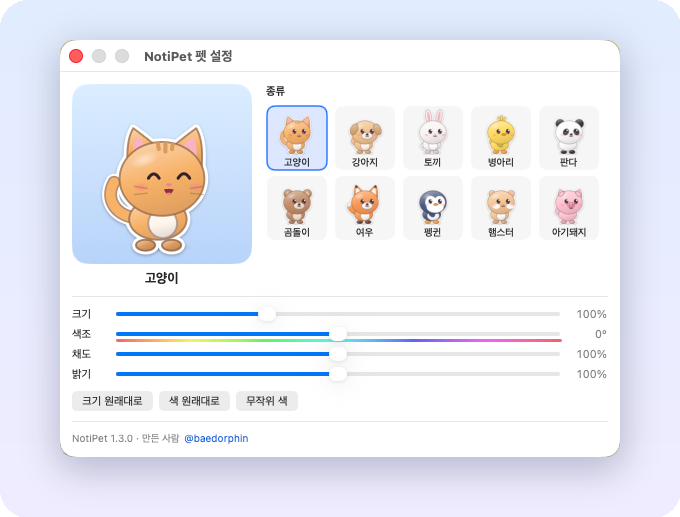
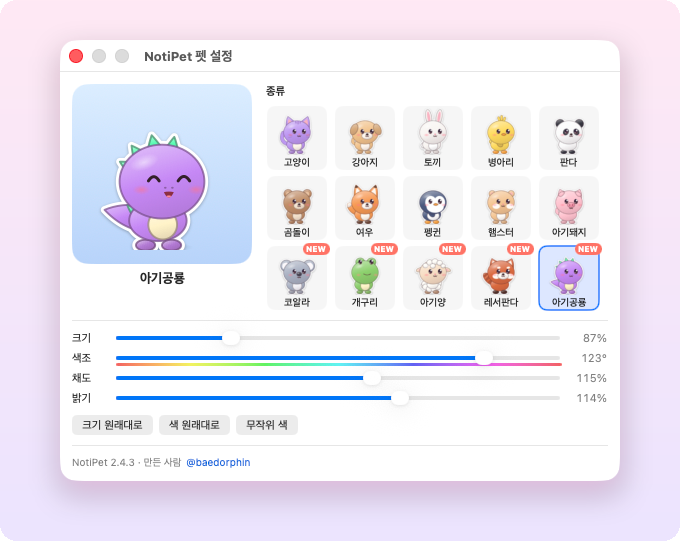
소개 페이지: 예전 디자인으로 되돌리고 작고 아기자기하게
- 담백한(평평한) 테마를 걷고 파스텔 그라데이션·카드·그림자를 되살림
- 전체 크기를 줄임(히어로 두 칸, 미리 보기 화면·카드·펫 카드 작게)
- 파스텔 핑크·라벤더·민트, 핑크→라벤더 버튼, 섹션 제목 ✦, 제목 🐾
- 모서리는 작게, 짧은 문장은 한 줄 유지, 휴대폰 배치 정리 유지
- 설정 창 사진을 2.4.3(펫 15종)으로 새로 찍음

diff --git a/site/style.css b/site/style.css
@@ -321,118 +321,47 @@ main { width: 100%; padding: 0 var(--gutter); }
   .float-heart, .dock span.bounce { animation: none; }
 }
 
+
 /* =====================================================================
-   담백한 테마 (2026-10-01): 둥근 모서리·그림자·색 그라데이션을 걷어내고
-   흰 바탕에 1px 선만 쓴다. 문장은 한 줄에 들어가게 짧게 쓰고,
-   좁은 화면에서는 줄을 바꾸는 대신 글자 크기를 폭에 맞춘다.
+   정리 (2026-10-01): 예전 디자인 그대로 두고
+   · 모서리만 작게 · 짧은 문장은 줄을 바꾸지 않고 좁은 화면에선 글자 크기를 폭에 맞춤
+   · 휴대폰 배치(색 조절·구매 신청·버전 목록) 정리
    ===================================================================== */
-:root { --line: #e5e7eb; --soft: #f6f7f9; --ink: #1f2430; --muted: #6b7280; --navy: #111827; --blue: #2f5ff5; --blue-deep: #2448c9; --shadow: none; --radius: 0; }
-*, *::before, *::after { border-radius: 0 !important; box-shadow: none !important; }
-.win i, .eyebrow .dot { border-radius: 50% !important; }         /* 맥 창 신호등·상태 점만 둥글게 */
-body { background: #fff; color: var(--ink); line-height: 1.5; }
-h1, h2, h3 { letter-spacing: -.01em; }
+:root { --radius: 12px; }
+.btn { border-radius: 9px; }
+.chips li, .tag, .eyebrow, .lang-switch, .unmute, .new-badge, .card h3 small { border-radius: 6px; }
+.stage { border-radius: 14px; }
+.art, .note, .buy, .dl-row, .faq details, .tuner, .pet-card { border-radius: 10px; }
+.win, .mini-noti, .mini-bubble, .mock-dialog, .mock-toggles { border-radius: 8px; }
+.bubble { border-radius: 12px; }
+.video-frame { border-radius: 14px; }
 
-/* 한 줄 문장: 줄을 바꾸지 않는다 */
+/* 한 줄 문장: 줄을 바꾸지 않는다 (문구는 짧게 써 두었다) */
 .hero h1, .lead, .section-title, .section-lead, .card h3, .card p, .checks li, .note b, .note p, .buy-head b, .buy-head span,
-.faq summary, .faq p, .dl-what, .dl-foot, .footer p, .stage-tip, .chips li, .bubble b, .bubble p, .toast { white-space: nowrap; }
-
-/* 상단 */
-.nav { background: rgba(255, 255, 255, .92); backdrop-filter: blur(10px); border-bottom: 1px solid var(--line); padding-top: 8px; padding-bottom: 8px; }
-.brand img, .footer img, .app-icon { border-radius: 0 !important; }
-.lang-switch { border-color: var(--line); font-weight: 700; }
-
-/* 버튼: 평평하게 */
-.btn { border-width: 1px; font-weight: 700; }
-.btn.primary { background: var(--navy); border-color: var(--navy); color: #fff; }
-.btn.primary:hover { background: #000; }
-.btn.ghost { background: #fff; border-color: #d1d5db; color: var(--navy); }
-.btn.ghost:hover { border-color: var(--navy); }
-
-/* 히어로: 가운데로 쌓아서 제목이 한 줄에 들어가게 */
-.hero { grid-template-columns: 1fr; justify-items: center; text-align: center; gap: 28px; padding: clamp(36px, 6vw, 88px) 0 24px; }
-.hero-copy { display: grid; justify-items: center; }
-.eyebrow { background: #fff; border-color: var(--line); color: var(--muted); font-weight: 600; }
-.hero h1 { font-size: clamp(20px, 5.3vw, 60px); line-height: 1.2; }
-.hero h1 em { background: none; color: var(--blue); -webkit-text-fill-color: currentColor; }
-html[lang=en] .hero h1 { font-size: clamp(16px, 4.3vw, 56px); }
-.lead { font-size: clamp(12px, 3.6vw, 19px); margin: 14px 0 22px; }
-.cta { justify-content: center; }
-.chips { justify-content: center; margin-top: 16px; flex-wrap: nowrap; }
-.chips li { font-size: clamp(10.5px, 3.1vw, 13px); }
-.chips li { background: #fff; border-color: var(--line); font-weight: 500; }
-.chips li.paid { background: #fff; border-color: #e7d3a4; color: #8a5a00; }
-
-/* 미리 보기 화면 */
-.stage { width: 100%; height: clamp(300px, 34vw, 520px); background: var(--soft); border: 1px solid var(--line); }
-.menubar { background: rgba(255, 255, 255, .9); border-bottom: 1px solid var(--line); }
-.win { background: #fff; border: 1px solid var(--line); }
-.win b { background: #eef0f3; }
-.dock { background: #fff; border: 1px solid var(--line); backdrop-filter: none; }
-.pet { filter: none; }
-.bubble { width: auto; min-width: 180px; border: 1px solid #d9dde3; padding: 9px 12px 10px; }
-.bubble::after { border-top-color: #fff; }
-.bubble .top i { border-radius: 0 !important; }
-.bubble .bar { background: var(--blue); opacity: .5; }
-
-/* 섹션·카드 */
-.section { padding: clamp(40px, 6vw, 72px) 0 0; }
-.section-title { font-size: clamp(20px, 5.4vw, 30px); }
-.section-lead { font-size: clamp(11px, 3.4vw, 16px); }
-.card { background: #fff; border: 1px solid var(--line); padding: 12px 12px 14px; }
-.card h3 { font-size: clamp(15px, 4.2vw, 18px); margin: 12px 2px 2px; }
-.card h3 small { background: #fff; border: 1px solid #e7d3a4; color: #8a5a00; }
-.card p { font-size: clamp(11px, 3.5vw, 14px); margin: 0 2px; }
-.art, .art-blue, .art-peach, .art-lilac, .art-mint, .art-pink, .art-sage, .art-gold { background: var(--soft); }
-.mini-noti, .mini-bubble, .mock-dialog, .mock-toggles { border-color: var(--line); }
-.mini-bubble b, .mock-dialog span { white-space: nowrap; }
-.folder { background: #6b8df5; } .folder::before { background: #5b7ff0; }
-.num { background: var(--navy); }
-.checks li { font-size: clamp(12px, 3.6vw, 16px); }
-.checks li::before { background: var(--navy); }
-
-/* 펫 고르기 */
-.tuner { border: 1px solid var(--line); }
-.pet-card { border: 1px solid var(--line); }
-.pet-card[aria-pressed=true] { border-color: var(--navy); outline: 1px solid var(--navy); }
-.pet-card:hover { transform: none; border-color: #9ca3af; }
-.new-badge { background: var(--navy); }
-
-/* 설정 화면 사진 */
-.shot { filter: none; border: 1px solid var(--line); }
-
-/* 영상 */
-.video-frame { background: var(--soft); border: 1px solid var(--line); }
-.unmute { border-color: #d1d5db; }
-
-/* 내려받기 */
-.note, .note.paid, .note.free { background: #fff; border: 1px solid var(--line); color: var(--ink); }
-.note b { font-size: clamp(13px, 3.8vw, 16px); }
-.note p { font-size: clamp(11px, 3.4vw, 14px); }
-.buy { border: 1px solid var(--line); }
-.buy-head span { font-size: clamp(11px, 3.3vw, 14px); }
-.buy-fields input { border-color: #d1d5db; background: #fff; }
-.dl-row, .dl-row.latest { border: 1px solid var(--line); border-top-width: 0; }
-.dl-list { gap: 0; border-top: 1px solid var(--line); }
-.dl-row.latest { background: var(--soft); }
-.tag.paid, .tag.free { background: #fff; border: 1px solid currentColor; }
-.tag.new { background: var(--navy); }
-.dl-what { font-size: clamp(12px, 3.6vw, 14px); }
-
-/* 자주 묻는 질문: 한 줄짜리 문장을 줄마다 */
-.faq { grid-template-columns: repeat(auto-fit, minmax(min(100%, 460px), 1fr)); gap: 0 12px; }
-.faq details { border: 1px solid var(--line); margin-top: -1px; }
-.faq summary { font-size: clamp(12.5px, 3.7vw, 15px); }
-.faq summary::after { color: var(--navy); }
-.faq p { font-size: clamp(11px, 3.4vw, 14px); margin: 0 0 4px; }
+.faq summary, .faq p, .dl-what, .dl-foot, .footer p, .stage-tip, .chips li { white-space: nowrap; }
+.hero h1 { font-size: clamp(20px, 2.5vw, 44px); line-height: 1.25; }
+html[lang=en] .hero h1 { font-size: clamp(16px, 2.1vw, 40px); }
+.lead { font-size: clamp(12px, 1.25vw, 18px); }
+.chips { flex-wrap: nowrap; }
+.faq p { margin: 0 0 4px; }
 .faq p:last-child { margin-bottom: 12px; }
-.faq code { background: var(--soft); }
+.bubble { width: auto; min-width: 190px; }
+.bubble b, .bubble p { white-space: nowrap; }
 
-.footer { border-top: 1px solid var(--line); margin-top: 56px; padding: 32px 16px 40px; }
-.footer p { font-size: clamp(11px, 3.3vw, 14px); }
-.toast { background: var(--navy); }
-
+@media (max-width: 980px) {
+  .hero-copy { display: grid; justify-items: center; text-align: center; }
+  .cta, .chips { justify-content: center; }
+  .hero h1 { font-size: clamp(20px, 5.3vw, 44px); }
+  html[lang=en] .hero h1 { font-size: clamp(16px, 4.3vw, 40px); }
+  .lead { font-size: clamp(12px, 3.6vw, 18px); }
+}
 @media (max-width: 640px) {
-  .stage { height: 320px; }
+  .section-title { font-size: clamp(20px, 5.4vw, 30px); }
+  .section-lead { font-size: clamp(11px, 3.4vw, 16px); }
+  .card p, .note p, .faq p, .buy-head span, .footer p { font-size: clamp(11px, 3.4vw, 14px); }
+  .checks li, .dl-what { font-size: clamp(12px, 3.6vw, 16px); }
+  .faq summary { font-size: clamp(12.5px, 3.7vw, 15px); }
+  .chips li { font-size: clamp(10.5px, 3.1vw, 13px); }
   .cards.four, .steps { grid-template-columns: 1fr; }
   .art { height: 118px; }
   .trio img { width: 74px; } .trio img:nth-child(2) { width: 96px; } .tint img:nth-child(1), .tint img:nth-child(3) { width: 64px; }
@@ -443,12 +372,115 @@ html[lang=en] .hero h1 { font-size: clamp(16px, 4.3vw, 56px); }
   .tuner .btn { justify-content: center; }
   .buy-fields label, .buy-fields label.grow, .buy-fields label:first-child { flex: 1 1 100%; }
   .buy-fields .btn { flex: 1 1 100%; justify-content: center; }
-  .dl-row { grid-template-columns: minmax(0, 1fr) auto; grid-template-areas: "ver btn" "tag tag" "what what"; gap: 4px 12px; }
+  .dl-row { grid-template-columns: minmax(0, 1fr) auto; grid-template-areas: "ver btn" "tag tag" "what what"; gap: 4px 12px; padding: 10px 12px; }
   .dl-row > .dl-ver { grid-area: ver; }
   .dl-row > div:nth-child(2) { grid-area: tag; }
   .dl-row > .dl-what { grid-area: what; }
-  .dl-row > .btn { grid-area: btn; grid-column: auto; align-self: start; }
-  .dl-row .tag { grid-row: auto; grid-column: auto; justify-self: start; }
+  .dl-row > .btn { grid-area: btn; align-self: start; }
   .dl-ver small { display: inline; margin-left: 8px; }
-  .dl-row { padding: 10px 12px; }
 }
+
+/* =====================================================================
+   아기자기 (2026-10-01): 전체를 작게, 파스텔 핑크·라벤더·민트로 귀엽게
+   ===================================================================== */
+:root { --pink: #ff7eb3; --pink-deep: #f0579a; --lilac: #b69cff; --mint: #7fdcc3; --cream: #fff8fb; --pet-base: clamp(78px, 5.6vw, 104px); }
+body {
+  font-size: 15px;
+  background:
+    radial-gradient(circle at 1px 1px, rgba(255, 126, 179, .16) 1px, transparent 1.5px) 0 0 / 22px 22px,
+    linear-gradient(180deg, #fff1f7 0, #f6f0ff 480px, #f0f8ff 1300px, #fff8fb 100%);
+}
+.nav { background: rgba(255, 248, 251, .85); border-bottom-color: #f7dbe8; }
+.brand { font-size: 17px; }
+.nav-links { gap: 14px; } .nav-links a { font-size: 13px; }
+.nav-links a:hover { color: var(--pink-deep); }
+
+/* 버튼: 핑크→라벤더 */
+.btn.primary { background: linear-gradient(90deg, var(--pink), var(--lilac)); border-color: transparent; box-shadow: 0 4px 12px rgba(240, 87, 154, .28); }
+.btn.primary:hover { background: linear-gradient(90deg, var(--pink-deep), #a184ff); }
+.btn.ghost { border-color: #f3cfe0; color: #8a3d64; }
+.btn.lg { padding: 7px 13px; font-size: 15px; }
+
+/* 히어로: 작게 */
+.hero { padding: clamp(24px, 3.4vw, 52px) 0 12px; gap: clamp(20px, 3vw, 48px); grid-template-columns: minmax(0, 1fr) minmax(0, 1.05fr); }
+.eyebrow { color: var(--pink-deep); border-color: #f7cfe1; background: #fff; }
+.eyebrow .dot { background: var(--pink); box-shadow: 0 0 0 3px rgba(255, 126, 179, .22); }
+.hero h1 { font-size: clamp(20px, 2.35vw, 38px); }
+html[lang=en] .hero h1 { font-size: clamp(16px, 1.95vw, 34px); }
+.hero h1 em { background: linear-gradient(90deg, var(--pink-deep), var(--lilac)); -webkit-background-clip: text; background-clip: text; color: transparent; }
+.hero h1::after { content: " 🐾"; font-size: .7em; -webkit-text-fill-color: initial; }
+.lead { margin: 10px 0 18px; font-size: clamp(12px, 1.1vw, 16px); }
+.chips li { font-size: 12px; border-color: #f3dbe7; }
+.chips li.paid { color: #b0457a; background: #ffe8f2; border-color: #f7c6dc; }
+.stage { height: clamp(260px, 25vw, 420px); background: radial-gradient(120% 90% at 85% 0%, #ffe2ef 0, transparent 55%), radial-gradient(90% 80% at 0% 100%, #dcf6ee 0, transparent 60%), linear-gradient(160deg, #ffe9f4, #ece4ff); box-shadow: 0 8px 26px rgba(240, 87, 154, .14); }
+.win-a { top: 44px; height: 108px; } .win-b { top: 70px; height: 86px; }
+.dock span { width: 28px; height: 28px; }
+.bubble { min-width: 170px; padding: 8px 10px 10px; }
+.bubble b { font-size: 13px; } .bubble p { font-size: 12px; }
+
+/* 섹션: 촘촘하게, 제목에 반짝이 */
+.section { padding: 40px 0 0; }
+.section-title { font-size: clamp(19px, 2vw, 25px); }
+.section-title::before, .section-title::after { content: "✦"; color: var(--pink); font-size: .6em; margin: 0 .5em; vertical-align: .3em; }
+.section-lead { font-size: 14px; }
+.cards { gap: 14px; margin-top: 18px; }
+.cards.four { grid-template-columns: repeat(auto-fit, minmax(210px, 1fr)); }
+.card { padding: 10px 10px 13px; box-shadow: 0 6px 18px rgba(182, 156, 255, .12); border-color: #f1e6f7; }
+.card h3 { font-size: 16px; margin-top: 10px; }
+.card h3 small { color: #b0457a; background: #ffe8f2; }
+.card p { font-size: 13px; }
+.art { height: clamp(112px, 8.5vw, 150px); }
+.art-blue { background: #eef0ff; } .art-peach { background: #fff0ea; } .art-lilac { background: #f3ecff; }
+.art-mint { background: #e9f8f2; } .art-pink { background: #ffedf4; } .art-sage { background: #f0f6ec; } .art-gold { background: #fff6e2; }
+.trio img { width: 74px; } .trio img:nth-child(2) { width: 94px; } .tint img:nth-child(1), .tint img:nth-child(3) { width: 64px; }
+.solo { width: 88px; }
+.checks { gap: 8px; } .checks li { font-size: 14px; padding-left: 26px; }
+.checks li::before { width: 18px; height: 18px; font-size: 11px; background: linear-gradient(135deg, var(--pink), var(--lilac)); }
+.num { background: linear-gradient(135deg, var(--pink), var(--lilac)); width: 22px; height: 22px; font-size: 12px; }
+
+/* 펫 고르기: 카드 작게 */
+.tuner { padding: 6px 12px; font-size: 13px; box-shadow: 0 4px 14px rgba(182, 156, 255, .12); }
+.tuner input[type=range] { accent-color: var(--pink); width: 100px; }
+.pet-grid { gap: 10px; margin-top: 16px; }
+.pet-grid .pet-card { flex: 0 1 108px; min-width: 0; }
+.pet-card { padding: 6px 4px 8px; box-shadow: 0 4px 12px rgba(182, 156, 255, .12); }
+.pet-card[aria-pressed=true] { border-color: var(--pink); }
+.pet-card .sprite { width: 76px; height: 76px; background-size: calc(76px * 31) 76px; }
+.pet-card b { font-size: 13px; margin-top: 2px; }
+.new-badge { background: var(--pink); font-size: 9px; top: 4px; right: 4px; }
+
+/* 영상·사진 */
+.video-frame { width: min(100%, calc(56vh * 0.8), 360px); }
+.split { margin-top: 28px; gap: 24px; }
+.shot { max-width: 560px; justify-self: center; }
+
+/* 내려받기 */
+.note b { font-size: 15px; } .note p { font-size: 13px; }
+.note.paid { background: #ffeef6; border-color: #f7cde0; color: #7a2f55; }
+.note.free { background: #eafaf4; border-color: #bfeadb; color: #1d5a47; }
+.buy { border-color: #f5d3e3; box-shadow: 0 4px 14px rgba(240, 87, 154, .1); }
+.dl-row { padding: 7px 10px 7px 14px; }
+.dl-row.latest { border-color: #f5cfe0; box-shadow: 0 4px 14px rgba(240, 87, 154, .12); }
+.dl-ver { font-size: 16px; }
+.tag.new { background: var(--pink); }
+.dl-what { font-size: 13px; }
+
+/* 질문 */
+.faq summary { padding: 9px 0; font-size: 14px; }
+.faq summary::after { color: var(--pink-deep); }
+.faq p { font-size: 13px; }
+.footer { padding: 44px 16px 36px; font-size: 13px; }
+
+@media (max-width: 980px) {
+  .hero { grid-template-columns: 1fr; }
+  .stage { height: clamp(260px, 52vw, 380px); }
+  .hero h1 { font-size: clamp(19px, 5.2vw, 36px); }
+}
+@media (max-width: 640px) {
+  .stage { height: 290px; --pet-base: 76px; }
+  .pet-grid .pet-card { flex-basis: calc((100% - 20px) / 3); }
+  .pet-card .sprite { width: 72px; height: 72px; background-size: calc(72px * 31) 72px; }
+  .section-title::before, .section-title::after { margin: 0 .35em; }
+}
+
+.pet-grid { max-width: calc(108px * 8 + 10px * 7); margin-inline: auto; }   /* 15마리를 8 + 7로 */

diff --git a/site/en/index.html b/site/en/index.html
@@ -172,7 +172,7 @@
         </article>
       </div>
       <div class="split">
-        <img class="shot" src="/img/settings-framed.png" alt="NotiPet pet settings window (Korean)" loading="lazy" width="680" height="517">
+        <img class="shot" src="/img/settings-framed.png" alt="NotiPet pet settings window (Korean)" loading="lazy" width="680" height="541">
         <ul class="checks">
           <li>See recent notifications again</li>
           <li><b>Mute</b> specific apps</li>

diff --git a/site/index.html b/site/index.html
@@ -170,7 +170,7 @@
         </article>
       </div>
       <div class="split">
-        <img class="shot" src="img/settings-framed.png" alt="NotiPet 펫 설정 창" loading="lazy" width="680" height="517">
+        <img class="shot" src="img/settings-framed.png" alt="NotiPet 펫 설정 창" loading="lazy" width="680" height="541">
         <ul class="checks">
           <li><b>메뉴바 🐾</b>에서 최근 알림 다시 보기</li>
           <li>앱별로 <b>알림 무시</b></li>
